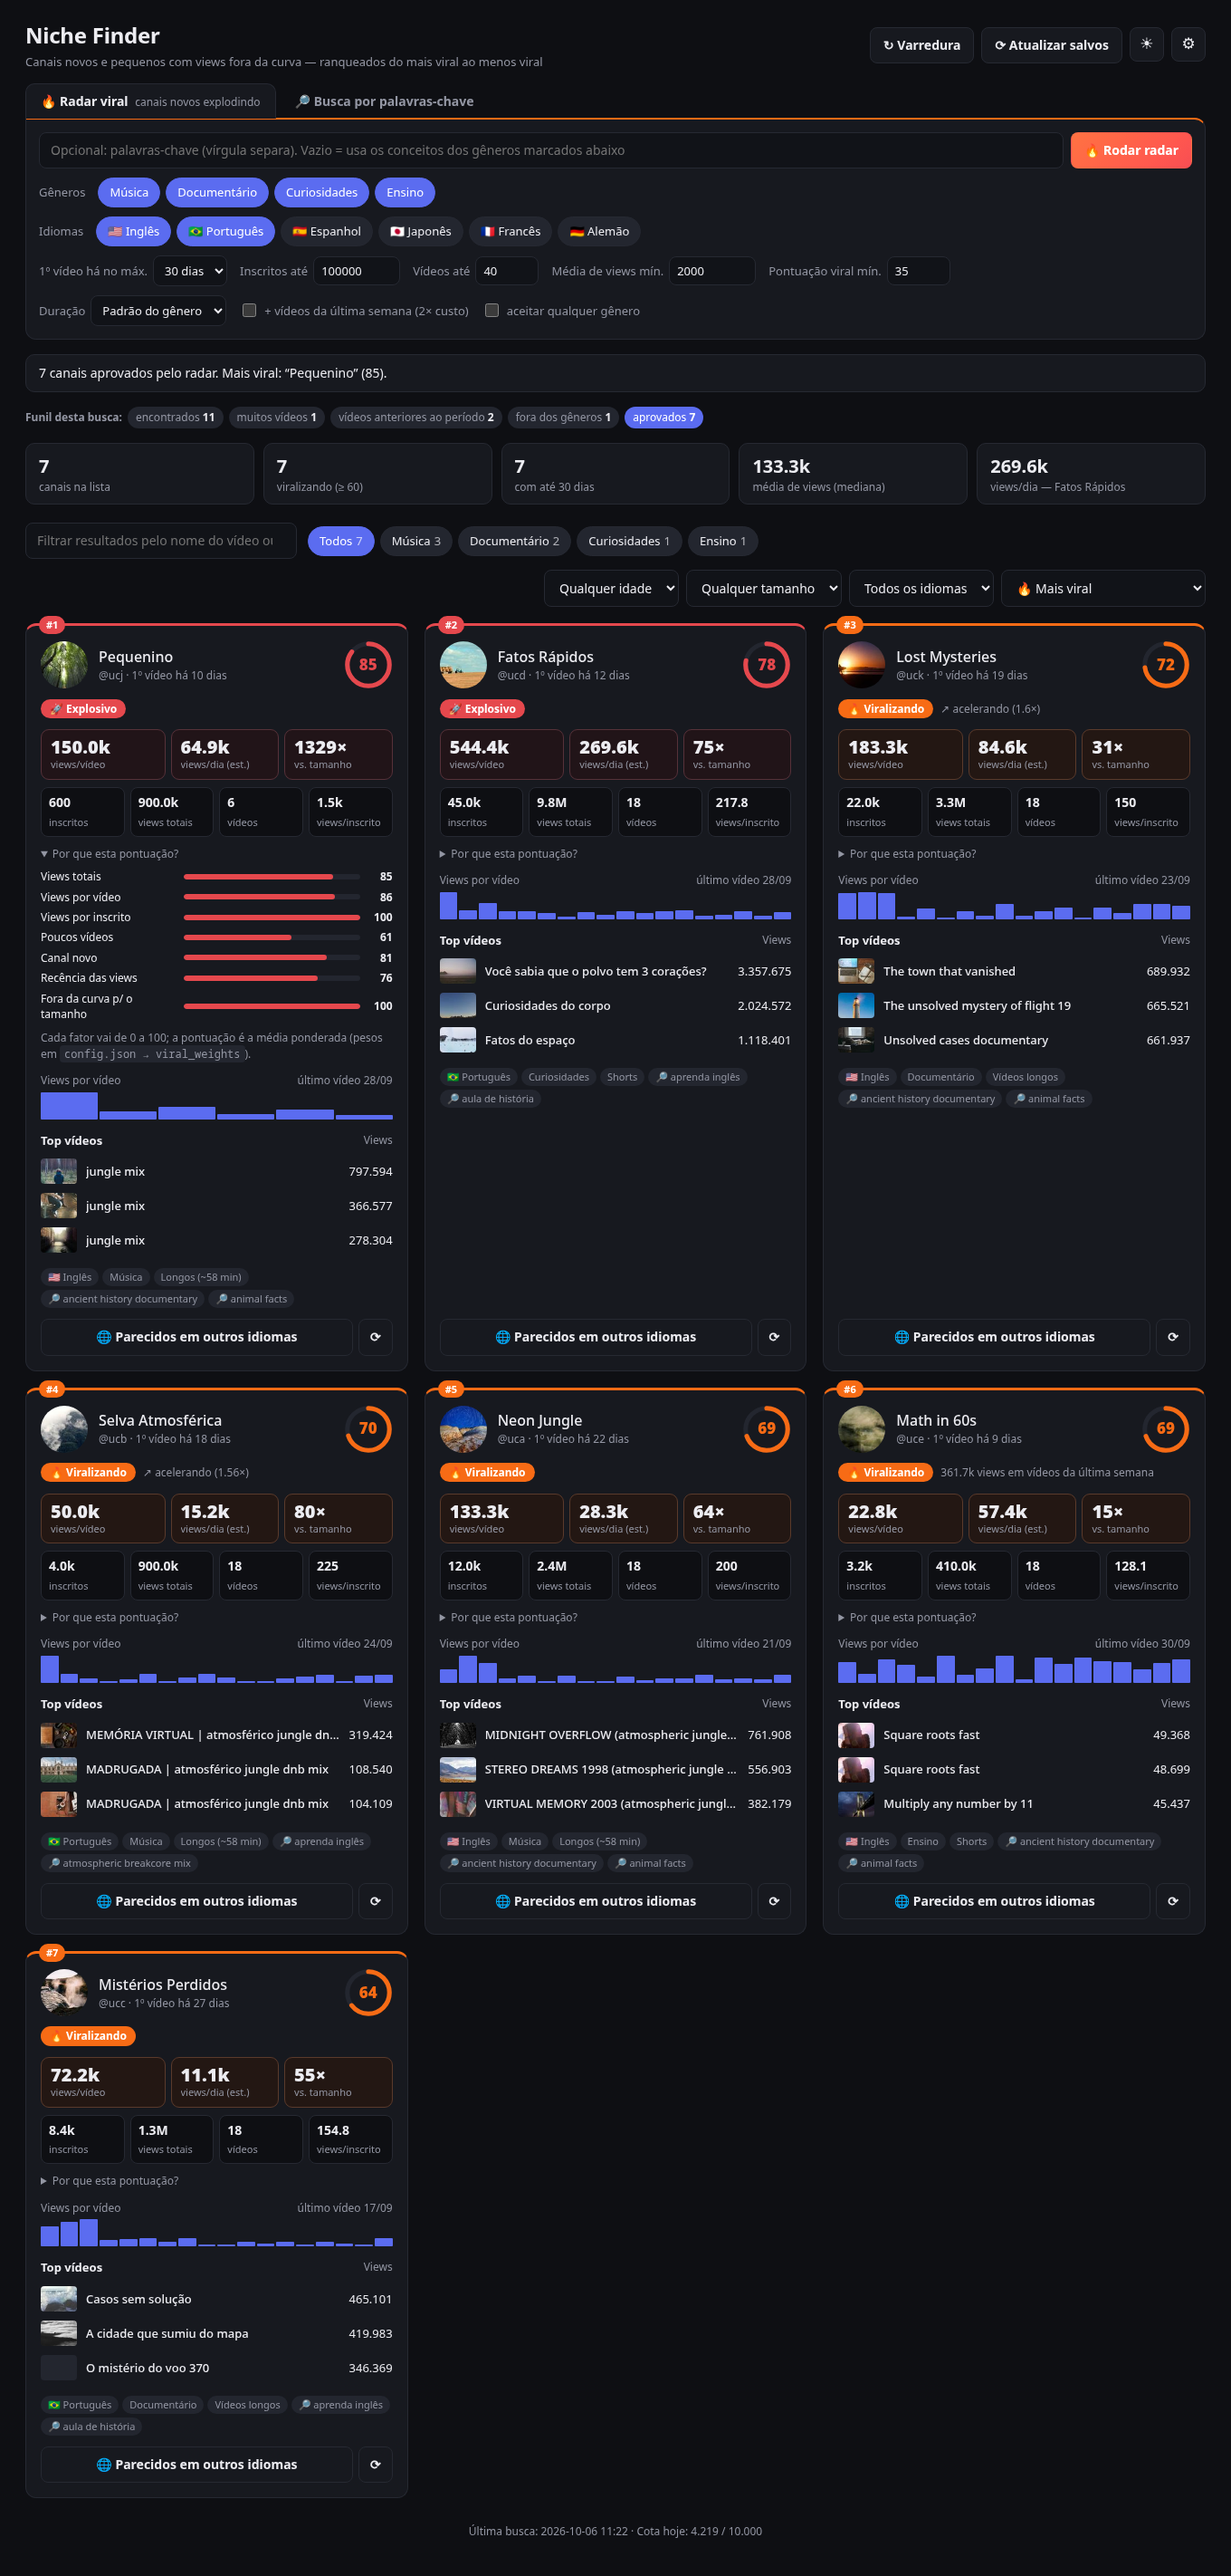
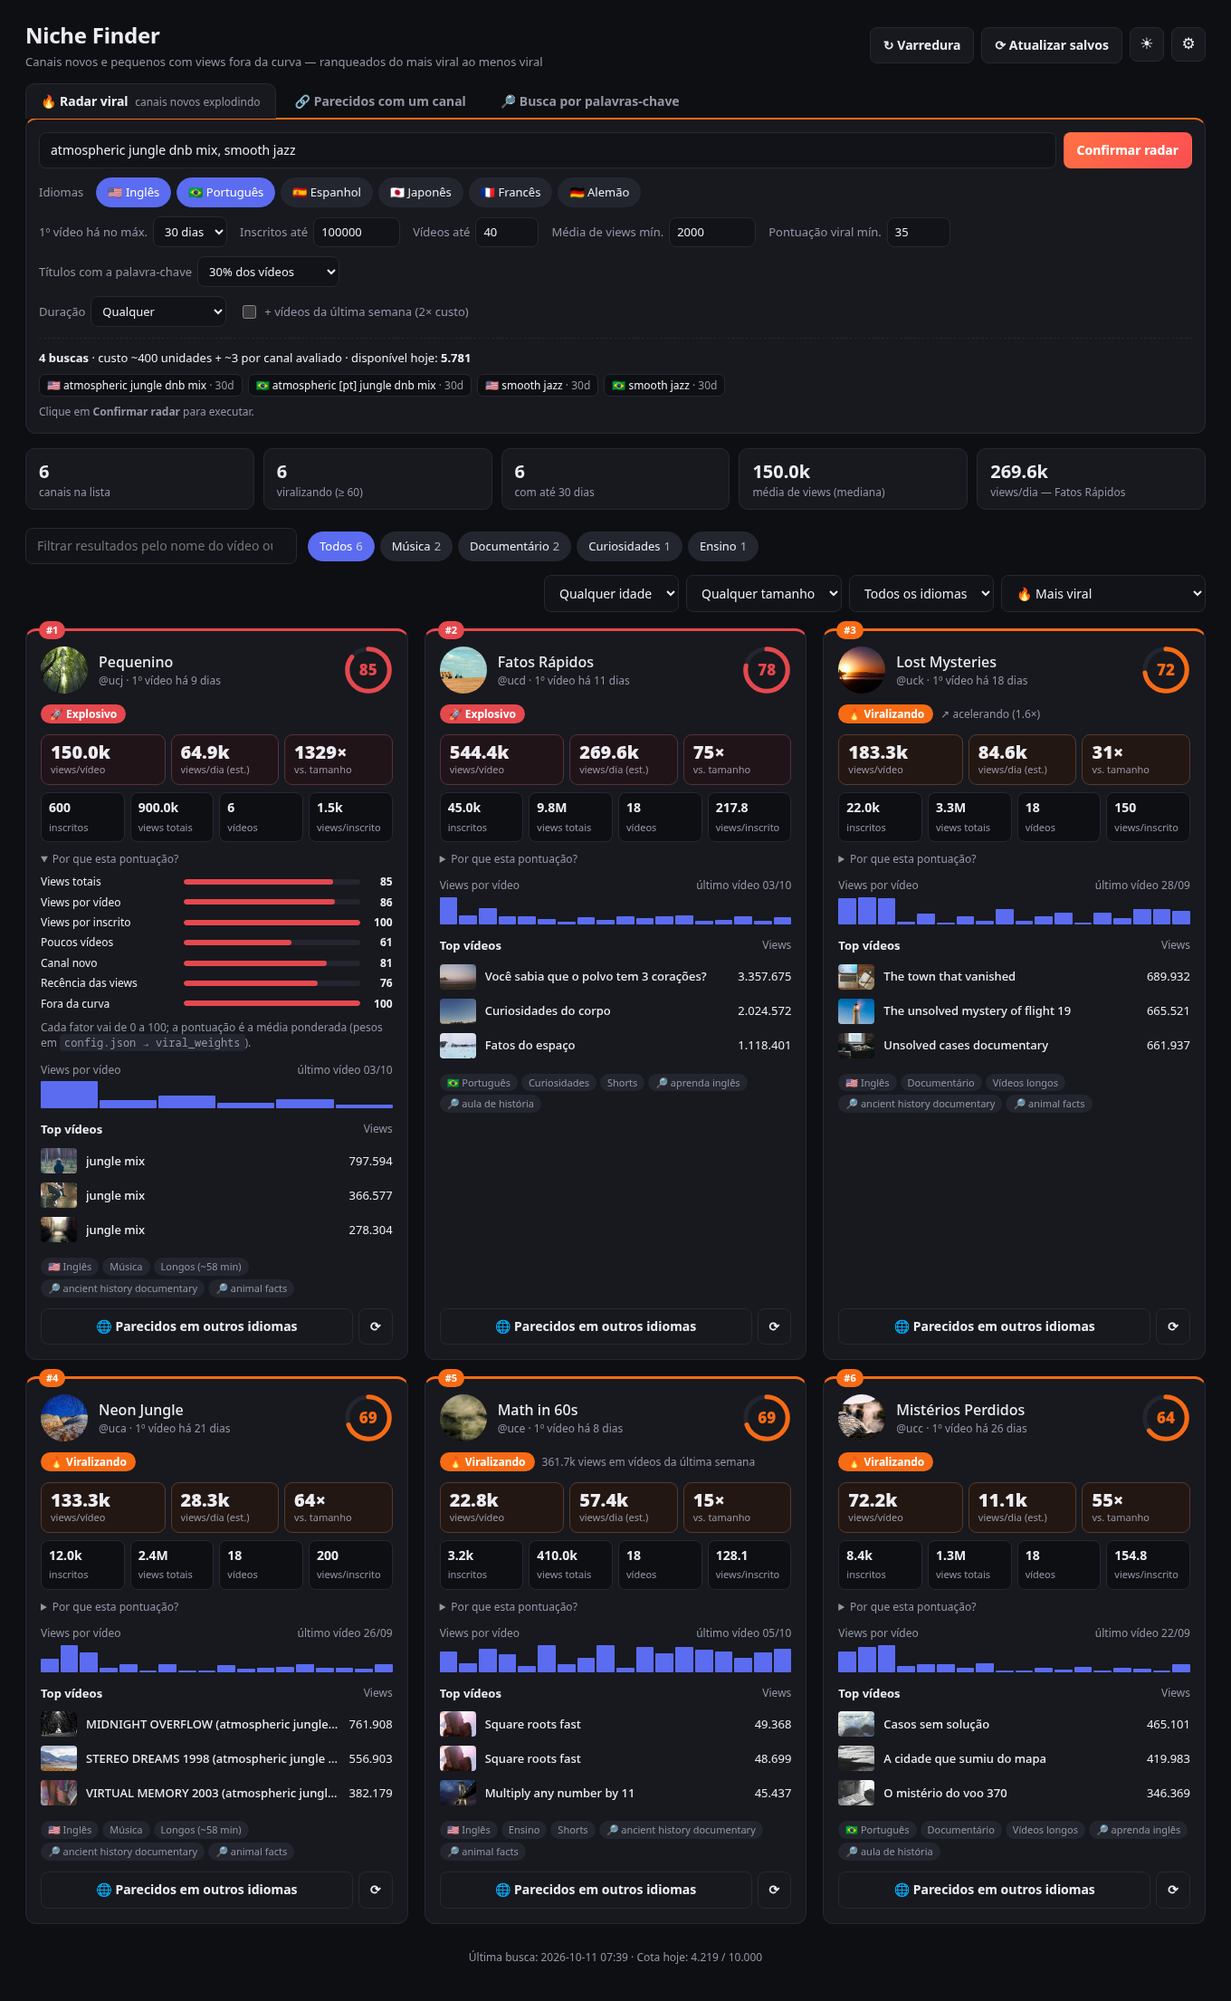
README: atualiza uso, cards, fluxo e screenshots para o Radar por palavras-chave

diff --git a/README.md b/README.md
@@ -134,44 +134,55 @@ export YT_API_KEY="sua-chave"
 
 | Ação | O que faz | Custo aproximado |
 |---|---|---|
-| **Buscar canais** (palavras-chave) | Busca cada palavra-chave em cada idioma marcado (traduzida) | 100 unidades por palavra-chave × idioma |
+| **🔥 Radar viral** | Busca as palavras-chave digitadas nos idiomas marcados e aprova só canais novos, pequenos e com as palavras-chave nos títulos dos vídeos | 100 unidades por palavra-chave × idioma (2× com "+ última semana") |
+| **🔎 Buscar canais** (palavras-chave) | Busca cada palavra-chave em cada idioma marcado (traduzida) | 100 unidades por palavra-chave × idioma |
 | **🔗 Parecidos com um canal** (link) | Analisa o canal (~3 unidades) e busca as sugestões editáveis nos idiomas marcados | 100 unidades por busca × idioma |
 | **🌐 Canais parecidos em outros idiomas** | Busca o estilo do canal, traduzido, nos idiomas marcados | 100 unidades × até 2 buscas × idioma |
 | **↻ Varredura** | Busca todos os conceitos do `config.json` nos idiomas marcados em Configurações | ~3.000 unidades (PT + EN) |
 
-Antes de gastar cota, o app sempre mostra **as buscas que vai fazer (já traduzidas)** e o custo estimado. Na busca por palavras-chave, o primeiro clique mostra o plano e o segundo (**Confirmar busca**) executa.
+Antes de gastar cota, o app sempre mostra **as buscas que vai fazer (já traduzidas)** e o custo estimado. No Radar e na busca por palavras-chave, o primeiro clique mostra o plano e o segundo (**Confirmar radar** / **Confirmar busca**) executa.
+
+| | 🔥 Radar viral | 🔗 Parecidos com um canal | 🔎 Busca por palavras-chave |
+|---|---|---|---|
+| De onde vêm as buscas | palavras-chave digitadas | sugeridas pelos títulos do canal (editáveis) | palavras-chave ou nome de um vídeo |
+| Palavra-chave precisa estar nos títulos do canal | ✅ (% ajustável) | ❌ | ❌ |
+| Filtra por gênero | ❌ (qualquer gênero) | ✅ mesmo gênero (opcional) | ✅ só os 4 gêneros |
+| Critérios | novos e pequenos (`radar`) | os do Radar | soltos (`criteria`) |
 
 #### Dicas para música
 
-Use o estilo como aparece nos títulos dos canais que você quer encontrar, e marque **Duração: Longos** para mixes:
+Use o estilo como aparece nos títulos dos canais que você quer encontrar (no Radar, o canal só passa se os títulos dele tiverem essas palavras), e marque **Duração: Longos** para mixes:
 
 ```
 atmospheric jungle dnb mix, liquid dnb mix, atmospheric breakcore mix, ps2 nostalgia jungle mix
 ```
 
-Nos critérios da tela principal, você pode ajustar a idade máxima do 1º vídeo (30, 60, 90 ou 180 dias) e a média mínima de views. Esses valores ficam salvos no navegador.
+No Radar você ajusta idade máxima do 1º vídeo, inscritos, nº de vídeos, média de views, pontuação viral mínima e a % de títulos com a palavra-chave; na busca por palavras-chave, a idade máxima (30, 60, 90 ou 180 dias) e a média mínima de views. Esses valores ficam salvos no navegador. Em nichos que postam muito (lofi, jazz relaxante), aumente **Vídeos até**.
 
 ### 4. Explore os resultados
 
 - **Filtrar resultados:** digite parte do nome de um vídeo ou canal para filtrar na hora, sem gastar cota. O vídeo que bateu com a busca fica destacado no card.
-- **Chips de gênero:** filtram por Música, Documentário, Curiosidades ou Ensino.
-- **Idioma e ordenação:** maior nota, maior média de views, mais views por dia, views por inscrito, mais novos ou menos inscritos.
+- **Chips de gênero:** filtram por Música, Documentário, Curiosidades, Ensino (ou Outros).
+- **Idade e tamanho:** só canais com 1º vídeo há ≤ 7/14/30/60 dias e/ou com ≤ 1 mil/10 mil/100 mil inscritos.
+- **Idioma e ordenação:** 🔥 mais viral (padrão), mais views/dia agora, mais fora da curva, maior média de views, mais views/inscrito, mais novos, menos inscritos, menos vídeos ou a nota antiga.
+- **⟳ Atualizar salvos:** recheca os canais (~3 unidades cada) e passa a mostrar o crescimento real em views/dia.
 - **☾ / ☀:** alterna entre modo escuro e claro.
 
 Cada card mostra:
 
-- avatar, nome (link para o canal), **média de views por vídeo** e a **nota**;
-- inscritos, views totais, views por dia e número de vídeos;
-- gráfico com as views de cada vídeo, do primeiro ao último;
-- os 3 vídeos mais vistos (com link);
-- etiquetas de idioma, gênero, formato (**Shorts**, **Longos (~58 min)** ou **Misto**) e as buscas que encontraram o canal.
+- posição no ranking (#1, #2…), avatar, nome (link para o canal) e a **pontuação viral** com o rótulo (🚀 Explosivo, 🔥 Viralizando, 📈 Promissor, 👀 Em observação);
+- destaques: views por vídeo, views por dia e "vs. tamanho" (melhor vídeo ÷ inscritos); depois inscritos, views totais, vídeos e views por inscrito;
+- **Por que esta pontuação?**: uma barra para cada fator;
+- gráfico com as views de cada vídeo, do primeiro ao último, e os 3 vídeos mais vistos (com link);
+- etiquetas de idioma, gênero, formato (**Shorts**, **Longos (~58 min)** ou **Misto**), **🎯 "palavra-chave" em X/Y títulos** (Radar), **≈ canal de referência** (Parecidos) e as buscas que encontraram o canal.
 
-Os resultados ficam salvos em `data/channels.json` e se acumulam entre varreduras. Canais que passam da idade máxima são removidos automaticamente na varredura seguinte.
+Os resultados de todas as abas ficam salvos em `data/channels.json` e se acumulam entre buscas. Canais que passam da idade máxima são removidos automaticamente na varredura seguinte.
 
 ## Como funciona
 
 ```
- Palavras-chave por gênero e idioma (config.json)
+ Radar / busca: palavras-chave digitadas (traduzidas)
+ Varredura: conceitos por gênero e idioma (config.json)
                       │
                       ▼
  1. search  ── vídeos publicados no período, ordenados por views
@@ -187,10 +198,11 @@ Os resultados ficam salvos em `data/channels.json` e se acumulam entre varredura
                       │
                       ▼
  4. videos  ── categoria, idioma do áudio, duração, views de cada vídeo
-               ✗ não se encaixa em nenhum dos 4 gêneros
+               ✗ Radar: palavra-chave em menos que a % mínima dos títulos (qualquer gênero passa)
+               ✗ busca/varredura: não se encaixa em nenhum dos 4 gêneros
                       │
                       ▼
- 5. nota, ranking e gravação em data/channels.json → dashboard
+ 5. pontuação viral, ranking e gravação em data/channels.json → dashboard
 ```
 
 Os filtros mais baratos rodam primeiro. Assim, a maior parte da cota vai para as buscas (100 unidades cada), e não para detalhar canais que seriam descartados.
@@ -429,7 +441,7 @@ python3 tests/test_offline.py --serve     # http://127.0.0.1:8799
 
 ## Limitações conhecidas
 
-- **Monetização não é verificada.** A API oficial não informa se um canal é monetizado, e o número de inscritos não é filtrado. Se quiser só canais com chance de monetizar, defina `"min_subscribers": 1000` no `config.json`.
+- **Monetização não é verificada.** A API oficial não informa se um canal é monetizado. O Radar limita o máximo de inscritos (100 mil), mas nenhuma aba exige um mínimo. Se quiser só canais com chance de monetizar, defina `"min_subscribers": 1000` no `config.json`.
 - **Canais com o 1º vídeo há menos de 30 dias e média alta são poucos.** Uma busca pode trazer poucos canais. Use o funil para ver onde eles caíram e aumente a idade máxima (60/90 dias) se precisar.
 - **A tradução é automática.** Ela pode errar gírias; confira as buscas no plano antes de confirmar. Quando o tradutor não responde, a busca usa o texto original.
 - **A busca do YouTube não é exaustiva.** Ela devolve no máximo 50 resultados por consulta, então canais que não aparecem para as palavras-chave configuradas não serão encontrados. Mais conceitos significam mais cobertura, mas também mais cota.
@@ -446,7 +458,8 @@ python3 tests/test_offline.py --serve     # http://127.0.0.1:8799
 | *Chave da API inválida* | Confira se copiou a chave inteira. Se ela tiver restrições, confirme que a YouTube Data API v3 está liberada. |
 | *A YouTube Data API v3 não está ativada* | Ative a API na Biblioteca do projeto no Google Cloud (passo 3 da seção da chave). |
 | *Cota diária da API esgotada* | Aguarde o reinício à meia-noite do Pacífico. Buscas repetidas continuam vindo do cache. |
-| Nenhum canal encontrado | Normal para critérios rígidos. Olhe o funil: se a maioria caiu em "vídeos anteriores ao período", aumente a idade máxima; em "média de views baixa", reduza a média mínima. Palavras-chave mais específicas (iguais aos títulos dos canais que você procura) também ajudam. |
+| Nenhum canal encontrado | Normal para critérios rígidos. Olhe o funil: se a maioria caiu em "vídeos anteriores ao período", aumente a idade máxima; em "média de views baixa", reduza a média mínima. Palavras-chave mais específicas (iguais aos títulos dos canais que você procura) também ajudam. No Radar: em "muitos vídeos", aumente **Vídeos até**; em "títulos sem as palavras-chave", use palavras mais curtas ou mude **Títulos com a palavra-chave** para "pelo menos 1 vídeo". |
+| *Digite pelo menos uma palavra-chave* | O Radar não usa mais gêneros pré-definidos: digite os estilos ou temas no campo de busca. |
 | `Address already in use` | Já existe algo na porta 8765. Use `python3 server.py --port 9000`. |
 
 ## Contribuindo
@@ -455,7 +468,7 @@ Contribuições são bem-vindas. Sugestões de melhoria:
 
 - novos idiomas e conceitos no `config.json`;
 - exportação para CSV ou planilha;
-- histórico de crescimento dos canais entre varreduras;
+- alertas quando um canal salvo acelerar;
 - mais sinais para detectar gênero.
 
 Antes de abrir um PR, rode os testes:
